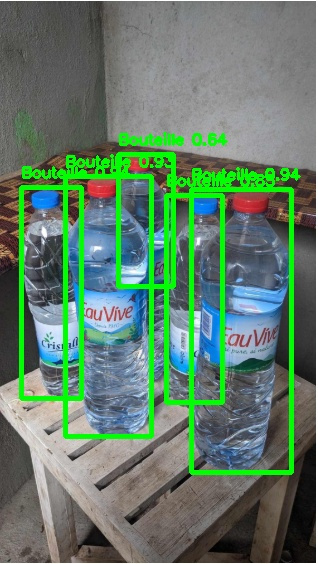
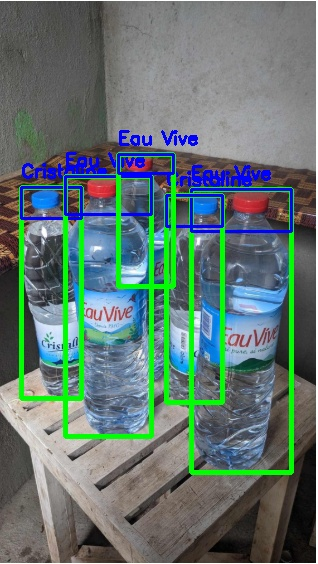
Optimisation du code

Changed region(s): [[0.0566, 0.211, 0.9623, 0.422]]

diff --git a/moon.py b/moon.py
@@ -1,0 +1,140 @@
+import cv2
+import numpy as np
+from moondream import ColorAnalyzer
+import argparse
+
+class BouteilleDetector:
+    def __init__(self):
+        self.color_analyzer = ColorAnalyzer()
+        self.adaptive_threshold = True
+        
+    def detecter_bouteille(self, image):
+        # Conversion en HSV pour l'analyse des couleurs
+        hsv = cv2.cvtColor(image, cv2.COLOR_BGR2HSV)
+        
+        # Détection des contours de la bouteille
+        gray = cv2.cvtColor(image, cv2.COLOR_BGR2GRAY)
+        blurred = cv2.GaussianBlur(gray, (5, 5), 0)
+        
+        # Utilisation de la méthode d'Otsu pour le seuillage automatique
+        _, thresh = cv2.threshold(blurred, 0, 255, 
+                                cv2.THRESH_BINARY_INV + cv2.THRESH_OTSU)
+        
+        # Trouver les contours
+        contours, _ = cv2.findContours(thresh, cv2.RETR_EXTERNAL, 
+                                     cv2.CHAIN_APPROX_SIMPLE)
+        
+        for contour in contours:
+            area = cv2.contourArea(contour)
+            x, y, w, h = cv2.boundingRect(contour)
+            
+            # Filtrer les petits contours
+            if area > 1000:
+                # Extraire la région d'intérêt (ROI) autour du contour
+                roi = image[y:y+h, x:x+w]
+                hsv_roi = hsv[y:y+h, x:x+w]
+                
+                # Analyse adaptative des couleurs
+                if self.adaptive_threshold:
+                    self._analyse_couleur_adaptive(hsv_roi)
+                else:
+                    self._analyse_couleur_classique(hsv_roi)
+                    
+                # Déterminer le type de bouteille
+                return self._determiner_type_bouteille()
+                    
+        return "Type non identifié"
+    
+    def _analyse_couleur_adaptive(self, hsv_roi):
+        # Calculer les histogrammes pour chaque canal HSV
+        h_hist = cv2.calcHist([hsv_roi], [0], None, [180], [0, 180])
+        s_hist = cv2.calcHist([hsv_roi], [1], None, [256], [0, 256])
+        v_hist = cv2.calcHist([hsv_roi], [2], None, [256], [0, 256])
+        
+        # Trouver les pics dans l'histogramme de teinte (H)
+        h_peaks = self._trouver_pics(h_hist)
+        
+        # Déterminer la couleur dominante
+        self.couleur_dominante = self._analyser_pics(h_peaks)
+    
+    def _analyse_couleur_classique(self, hsv_roi):
+        # Utilisation de la méthode d'Otsu pour chaque canal
+        h_thresh = cv2.threshold(hsv_roi[:,:,0], 0, 179, 
+                               cv2.THRESH_BINARY + cv2.THRESH_OTSU)[1]
+        s_thresh = cv2.threshold(hsv_roi[:,:,1], 0, 255, 
+                               cv2.THRESH_BINARY + cv2.THRESH_OTSU)[1]
+        v_thresh = cv2.threshold(hsv_roi[:,:,2], 0, 255, 
+                               cv2.THRESH_BINARY + cv2.THRESH_OTSU)[1]
+        
+        # Analyse des seuils obtenus
+        self._analyser_seuils(h_thresh, s_thresh, v_thresh)
+    
+    def _trouver_pics(self, hist):
+        peaks = []
+        for i in range(1, len(hist)-1):
+            if hist[i] > hist[i-1] and hist[i] > hist[i+1]:
+                peaks.append(i)
+        return peaks
+    
+    def _analyser_pics(self, peaks):
+        if not peaks:
+            return "Inconnu"
+        
+        # Déterminer la couleur basée sur les pics
+        principal_peak = peaks[0]
+        if 0 <= principal_peak <= 10:
+            return "Rouge"
+        elif 10 < principal_peak <= 20:
+            return "Orange"
+        # Ajouter d'autres plages de couleurs si nécessaire
+    
+    def _analyser_seuils(self, h_thresh, s_thresh, v_thresh):
+        # Analyse des valeurs moyennes des seuils
+        h_moyen = np.mean(h_thresh)
+        s_moyen = np.mean(s_thresh)
+        v_moyen = np.mean(v_thresh)
+        
+        # Classification basée sur les valeurs moyennes
+        if h_moyen < 10 and s_moyen > 100:
+            self.couleur_dominante = "Rouge"
+        elif h_moyen < 20 and s_moyen > 100:
+            self.couleur_dominante = "Orange"
+    
+    def _determiner_type_bouteille(self):
+        if self.couleur_dominante == "Rouge":
+            return "Eau Vive" if self.color_analyzer.analyze_transparency() else "Eau Cristalline"
+        elif self.couleur_dominante == "Orange":
+            return "Fanta"
+        return "Type non identifié"
+
+def main():
+    # Configuration des arguments
+    parser = argparse.ArgumentParser(description='Détecteur de bouteilles')
+    parser.add_argument('--image', type=str, required=True,
+                       help='images.png')
+    parser.add_argument('--adaptive', action='store_true',
+                       help='Activer le seuillage adaptatif')
+    args = parser.parse_args()
+    
+    # Initialisation du détecteur
+    detector = BouteilleDetector()
+    detector.adaptive_threshold = args.adaptive
+    
+    # Charger l'image
+    image = cv2.imread(args.image)
+    if image is None:
+        print("Erreur: Impossible de charger l'image")
+        return
+    
+    # Détecter la bouteille
+    resultat = detector.detecter_bouteille(image)
+    
+    # Afficher le résultat
+    cv2.putText(image, resultat, (10, 20), cv2.FONT_HERSHEY_SIMPLEX, 
+                0.5, (0, 255, 0), 2)
+    cv2.imshow('Detection Bouteille', image)
+    cv2.waitKey(0)
+    cv2.destroyAllWindows()
+
+if __name__ == "__main__":
+    main()

diff --git a/test.py b/test.py
@@ -1,0 +1,111 @@
+from ultralytics import YOLO
+import cv2
+import numpy as np
+from collections import defaultdict
+from PIL import Image
+
+# Charger le modèle YOLOv8
+model = YOLO("yolov8n.pt")  # Modèle léger, vous pouvez utiliser un modèle plus précis
+
+# Définition des couleurs des capsules (HSV)
+CAPSULE_COLORS = {
+    "Eau Vive": {"lower": np.array([0, 100, 100]), "upper": np.array([10, 255, 255])},  # Rouge
+    "Cristaline": {"lower": np.array([90, 50, 50]), "upper": np.array([130, 255, 255])},  # Bleu
+    "Fanta": {"lower": np.array([0, 100, 45]), "upper": np.array([225, 250, 255])}  # Orange
+}
+
+BOTTLE_CLASS_ID = 39  # Classe "bottle" dans le dataset COCO
+
+def detecter_bouteilles(image_path, iou_threshold=0.6):
+    """Détecte les bouteilles, dessine des contours et identifie leur marque selon la capsule."""
+    
+    # Charger l'image
+    image = cv2.imread(image_path)
+    image_rgb = cv2.cvtColor(image, cv2.COLOR_BGR2RGB)
+
+    # Effectuer la détection avec YOLO
+    results = model(image_rgb)
+
+    # Stocker les détections
+    boxes = []
+    scores = []
+    class_ids = []
+
+    for result in results:
+        for box in result.boxes.data:
+            x1, y1, x2, y2, score, class_id = box.tolist()
+            class_id = int(class_id)
+
+            if class_id == BOTTLE_CLASS_ID:  # Vérifier si c'est une bouteille
+                boxes.append([x1, y1, x2, y2])
+                scores.append(score)
+                class_ids.append(class_id)
+
+    # Appliquer la suppression non maximale (NMS)
+    indices = cv2.dnn.NMSBoxes(boxes, scores, score_threshold=0.1, nms_threshold=iou_threshold)
+
+    # Stocker les résultats de détection des bouteilles
+    bottles_count = defaultdict(int)
+
+    if len(indices) > 0:
+        for i in indices.flatten():
+            box = boxes[i]
+            x1, y1, x2, y2 = box
+
+            # Dessiner la boîte autour de la bouteille
+            cv2.rectangle(image, (int(x1), int(y1)), (int(x2), int(y2)), (0, 255, 0), 3)
+
+            # Extraire la région de la capsule (15% de la hauteur en haut)
+            cap_height = int((y2 - y1) * 0.15)
+            cap_roi = image[int(y1):int(y1 + cap_height), int(x1):int(x2)]
+
+            # Identifier la capsule
+            marque = identifier_capsule(cap_roi)
+
+            if marque:
+                bottles_count[marque] += 1
+
+                # Dessiner un contour autour de la capsule
+                cv2.rectangle(image, (int(x1), int(y1)), (int(x2), int(y1 + cap_height)), (255, 0, 0), 2)
+
+                # Ajouter le nom de la marque au-dessus de la capsule
+                cv2.putText(image, f"{marque}", (int(x1), int(y1) - 10),
+                            cv2.FONT_HERSHEY_SIMPLEX, 0.6, (255, 0, 0), 2)
+
+    # Sauvegarder l'image annotée
+    output_path = "resultat_detection.jpg"
+    cv2.imwrite(output_path, image)
+    print(f"Résultat enregistré sous '{output_path}'.")
+
+    # Afficher l'image
+    img_pil = Image.open(output_path)
+    img_pil.show()
+
+    # Afficher les résultats en console
+    for marque, count in bottles_count.items():
+        print(f"{marque} : {count}")
+
+    return bottles_count
+
+def identifier_capsule(cap_roi):
+    """Identifie la couleur dominante d'une capsule et retourne la marque correspondante."""
+
+    if cap_roi is None or cap_roi.size == 0:
+        return None
+
+    # Convertir en HSV
+    cap_hsv = cv2.cvtColor(cap_roi, cv2.COLOR_BGR2HSV)
+
+    # Détection de la couleur de la capsule
+    for marque, color_range in CAPSULE_COLORS.items():
+        mask = cv2.inRange(cap_hsv, color_range["lower"], color_range["upper"])
+        if np.sum(mask) > 15000:  # Seuil pour éviter les faux positifs
+            return marque
+
+    return None  # Si aucune couleur ne correspond
+
+# Exemple d'utilisation
+if __name__ == "__main__":
+    chemin_image = "images.png"  # Remplacez par votre image
+    resultats = detecter_bouteilles(chemin_image)
+    print("Détails des bouteilles détectées :", resultats)
